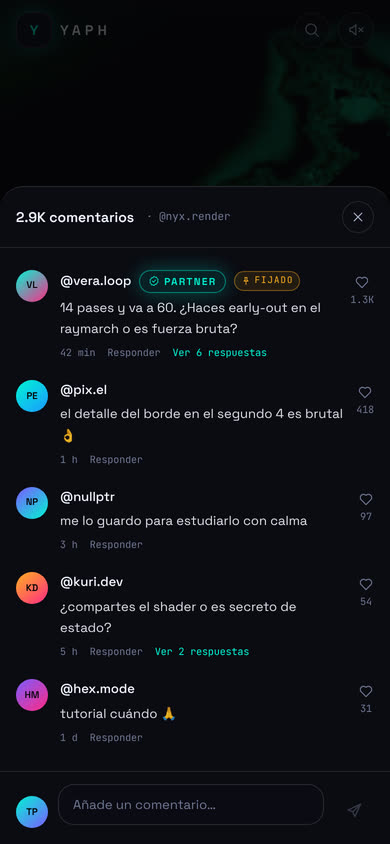
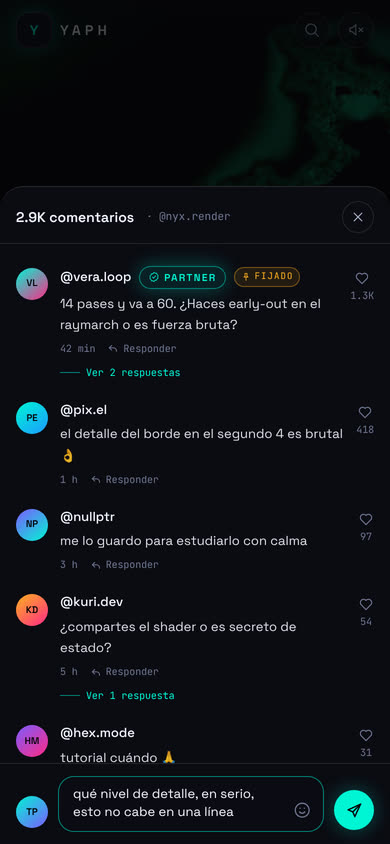
fix(comments): la caja de escritura ocupa la fila y crece con el texto
Repartida en columnas junto al avatar, el selector de emoji y el botón de
enviar, al campo le quedaban unos 90 px en la columna derecha: el placeholder
se partía en dos líneas, se recortaba contra la altura de una sola fila y
asomaba la barra de desplazamiento nativa del textarea.

- El campo ocupa el ancho disponible y el selector de emoji pasa dentro, en
  la esquina. Va en un envoltorio con la posición porque el host del selector
  ya es `relative` para anclar su panel, y dos utilidades de `position` en el
  mismo elemento se resuelven por orden de la cascada.
- La altura se ajusta al contenido hasta unas cinco líneas y a partir de ahí
  desplaza, con la barra oculta. El ajuste usa `afterRenderEffect` para medir
  el DOM ya actualizado; no se usa `field-sizing: content` porque todavía no
  está en todos los motores.
- En la hoja móvil el primer pase medía con el `<dialog>` aún sin abrir, donde
  `scrollHeight` vale 0, y dejaba la caja en 22 px de alto. Se descarta esa
  medida y el `min-h` del campo sostiene la altura hasta que haya algo que
  medir.
- El contador de caracteres baja a su propia línea, enlazado con
  `aria-describedby`, y el textarea declara `enterkeyhint="send"` para que el
  teclado virtual ofrezca enviar.

Claude-Session: https://claude.ai/code/session_016RW5nhrZUEgySQ6RARUoz1

diff --git a/src/app/features/comments/comments-thread.ts b/src/app/features/comments/comments-thread.ts
@@ -1,5 +1,6 @@
 import {
   afterNextRender,
+  afterRenderEffect,
   Component,
   computed,
   effect,
@@ -24,6 +25,9 @@ type Tab = 'live' | 'thread';
 
 /** A partir de aquí se muestra cuántos caracteres quedan. */
 const WARN_REMAINING = 30;
+
+/** Alto máximo del campo antes de que empiece a desplazarse (≈5 líneas). */
+const COMPOSER_MAX_PX = 112;
 
 /** Ids únicos por instancia para enlazar pestañas y paneles con ARIA. */
 let instances = 0;
@@ -166,48 +170,60 @@ let instances = 0;
         </p>
       }
 
-      <form class="flex items-end gap-2 px-4 py-3" (submit)="submit($event)">
-        <app-avatar-orb class="mb-1" [creator]="currentUser" size="sm" />
+      <form class="px-4 py-3" (submit)="submit($event)">
+        <div class="flex items-end gap-2.5">
+          <app-avatar-orb class="mb-1" [creator]="currentUser" size="sm" />
 
-        <label class="min-w-0 flex-1">
-          <span class="sr-only">{{ composerLabel() }}</span>
-          <textarea
-            #composer
-            rows="1"
-            [attr.maxlength]="maxLength"
-            [attr.placeholder]="placeholder()"
-            class="glass-flat max-h-24 w-full resize-none rounded-2xl border border-white/12 px-3.5 py-2.5 text-[0.8125rem] text-ink placeholder:text-ink-faint focus:border-neon-cyan/50 focus:outline-none"
-            [value]="draft()"
-            (input)="onInput($event)"
-            (keydown.enter)="submit($event)"
-          ></textarea>
-        </label>
+          <!-- El campo ocupa toda la fila y el selector de emoji va dentro:
+               repartido en columnas, el placeholder no cabía en una línea y se
+               recortaba contra la altura de una sola fila. -->
+          <div class="relative min-w-0 flex-1">
+            <label>
+              <span class="sr-only">{{ composerLabel() }}</span>
+              <textarea
+                #composer
+                rows="1"
+                enterkeyhint="send"
+                [attr.maxlength]="maxLength"
+                [attr.placeholder]="placeholder()"
+                [attr.aria-describedby]="remaining() <= warnRemaining ? counterId : null"
+                class="glass-flat scrollbar-none block max-h-28 min-h-[2.375rem] w-full resize-none overflow-y-auto rounded-2xl border border-white/12 py-2.5 pr-11 pl-3.5 text-[0.8125rem] leading-snug text-ink placeholder:text-ink-faint focus:border-neon-cyan/50 focus:outline-none"
+                [value]="draft()"
+                (input)="onInput($event)"
+                (keydown.enter)="submit($event)"
+              ></textarea>
+            </label>
 
-        <app-emoji-picker class="mb-0.5" (pick)="insertEmoji($event)" />
+            <!-- El envoltorio lleva la posición: el host del selector ya es
+                 relative para anclar su panel, y dos utilidades de position en
+                 el mismo elemento se resuelven por orden de la cascada. -->
+            <div class="absolute right-1.5 bottom-1.5">
+              <app-emoji-picker (pick)="insertEmoji($event)" />
+            </div>
+          </div>
+
+          <button
+            type="submit"
+            class="mb-0.5 grid size-10 shrink-0 place-items-center rounded-full transition-[background-color,color,box-shadow,opacity] duration-200 disabled:cursor-not-allowed disabled:opacity-40"
+            [class]="submitClass()"
+            [disabled]="!canSubmit()"
+            [attr.aria-label]="submitLabel()"
+          >
+            <app-icon name="send" class="size-[1.15rem]" [strokeWidth]="1.8" />
+          </button>
+        </div>
 
         @if (remaining() <= warnRemaining) {
-          <span
-            class="metric mb-3 shrink-0 text-[0.625rem]"
+          <p
+            [id]="counterId"
+            class="metric mt-1.5 pr-12 text-right text-[0.625rem]"
             [class.text-neon-magenta]="remaining() <= 0"
             [class.text-ink-faint]="remaining() > 0"
             aria-live="polite"
           >
-            {{ remaining() }}
-          </span>
+            {{ remaining() }} caracteres
+          </p>
         }
-
-        <button
-          type="submit"
-          class="mb-0.5 grid size-10 shrink-0 place-items-center rounded-full transition-[background-color,color,box-shadow,opacity] duration-200 disabled:cursor-not-allowed disabled:opacity-40"
-          [class.bg-neon-cyan]="canSubmit()"
-          [class.text-abyss]="canSubmit()"
-          [class.shadow-neon-cyan]="canSubmit()"
-          [class.text-ink-faint]="!canSubmit()"
-          [disabled]="!canSubmit()"
-          [attr.aria-label]="submitLabel()"
-        >
-          <app-icon name="send" class="size-[1.15rem]" [strokeWidth]="1.8" />
-        </button>
       </form>
     </div>
   `,
@@ -227,6 +243,7 @@ export class CommentsThread {
   protected readonly maxLength = COMMENT_MAX_LENGTH;
   protected readonly warnRemaining = WARN_REMAINING;
   protected readonly uid = `-${(instances += 1)}`;
+  protected readonly counterId = `composer-count${this.uid}`;
   protected readonly tabs = [
     { id: 'live', label: 'En directo' },
     { id: 'thread', label: 'Comentarios' },
@@ -277,6 +294,17 @@ export class CommentsThread {
       if (this.autoFocus()) this.composerRef().nativeElement.focus();
     });
 
+    // El campo crece con el texto. `afterRenderEffect` y no `effect` porque
+    // hay que medir el DOM ya actualizado con el nuevo valor.
+    //
+    // No se usa `field-sizing: content`, que haría esto en CSS puro, porque
+    // todavía no está en todos los motores; en cuanto lo esté, este bloque se
+    // sustituye por una línea de estilos.
+    afterRenderEffect(() => {
+      this.draft();
+      this.autosize();
+    });
+
     // El chat solo corre mientras su pestaña está a la vista. `TrendsStore`
     // lleva recuento de suscriptores, así que convivir con la tarjeta del HUD
     // no duplica el temporizador.
@@ -303,6 +331,14 @@ export class CommentsThread {
     return this.replies(comment).length;
   }
 
+  /**
+   * Clases completas por rama: `bg-neon-cyan` y compañía se alternan juntas y
+   * un nombre con barra no se puede escribir como enlace `[class.…]`.
+   */
+  protected readonly submitClass = computed(() =>
+    this.canSubmit() ? 'bg-neon-cyan text-abyss shadow-neon-cyan' : 'text-ink-faint',
+  );
+
   protected tabClass(id: Tab): string {
     return this.tab() === id
       ? 'bg-neon-cyan/15 text-neon-cyan shadow-neon-cyan'
@@ -318,6 +354,25 @@ export class CommentsThread {
 
   protected onInput(event: Event): void {
     this.draft.set((event.target as HTMLTextAreaElement).value);
+  }
+
+  /**
+   * Ajusta el alto al contenido. Leer `scrollHeight` fuerza un cálculo de
+   * layout, pero solo ocurre cuando cambia el texto, no en cada frame.
+   *
+   * En la hoja móvil el primer pase ocurre con el `<dialog>` todavía sin
+   * abrir: el campo no está renderizado, `scrollHeight` vale 0 y fijar ese
+   * valor dejaría la caja aplastada. Se descarta la medida y el `min-h` del
+   * propio campo sostiene la altura hasta que haya algo que medir.
+   */
+  private autosize(): void {
+    const textarea = this.composerRef().nativeElement;
+    textarea.style.height = 'auto';
+
+    const measured = textarea.scrollHeight;
+    if (measured === 0) return;
+
+    textarea.style.height = `${Math.min(measured, COMPOSER_MAX_PX)}px`;
   }
 
   /** Inserta el emoji donde está el cursor, no al final del texto. */

diff --git a/src/app/ui/emoji-picker.ts b/src/app/ui/emoji-picker.ts
@@ -1,4 +1,4 @@
-import { Component, ElementRef, inject, output, signal } from '@angular/core';
+import { Component, computed, ElementRef, inject, output, signal } from '@angular/core';
 import { Icon } from './icon';
 
 interface Emoji {
@@ -109,9 +109,8 @@ const GROUPS: readonly EmojiGroup[] = [
   template: `
     <button
       type="button"
-      class="grid size-9 place-items-center rounded-full border border-white/12 text-ink-muted transition-[color,border-color] duration-200 hover:border-neon-cyan/50 hover:text-neon-cyan"
-      [class.border-neon-cyan]="open()"
-      [class.text-neon-cyan]="open()"
+      class="grid size-8 place-items-center rounded-full transition-[color,background-color] duration-200 hover:bg-white/10 hover:text-neon-cyan"
+      [class]="buttonClass()"
       [attr.aria-expanded]="open()"
       aria-label="Insertar emoji"
       (click)="open.set(!open())"
@@ -121,7 +120,7 @@ const GROUPS: readonly EmojiGroup[] = [
 
     @if (open()) {
       <div
-        class="absolute right-0 bottom-11 z-50 w-64 rounded-glass border border-white/12 bg-carbon p-2 shadow-hud"
+        class="absolute right-0 bottom-10 z-50 w-60 rounded-glass border border-white/12 bg-carbon p-2 shadow-hud"
         role="group"
         aria-label="Emojis"
       >
@@ -155,6 +154,14 @@ export class EmojiPicker {
   readonly pick = output<string>();
 
   protected readonly open = signal(false);
+
+  /**
+   * Clases completas por rama: `bg-white/10` lleva barra y no se puede
+   * escribir como enlace `[class.…]`.
+   */
+  protected readonly buttonClass = computed(() =>
+    this.open() ? 'bg-white/10 text-neon-cyan' : 'text-ink-faint',
+  );
   protected readonly groups = GROUPS;
 
   private readonly host = inject<ElementRef<HTMLElement>>(ElementRef);

diff --git a/src/app/features/comments/comments.spec.ts b/src/app/features/comments/comments.spec.ts
@@ -222,6 +222,38 @@ describe('Hilo de comentarios', () => {
     });
   });
 
+  describe('caja de escritura', () => {
+    it('anuncia los caracteres restantes solo cerca del límite', async () => {
+      const { fixture, host } = await render();
+
+      commentButton(host).click();
+      await fixture.whenStable();
+
+      const composer = host.querySelector<HTMLTextAreaElement>('textarea')!;
+      expect(composer.getAttribute('enterkeyhint')).toBe('send');
+      expect(composer.getAttribute('aria-describedby')).toBeNull();
+
+      composer.value = 'x'.repeat(125);
+      composer.dispatchEvent(new Event('input', { bubbles: true }));
+      await fixture.whenStable();
+
+      const counterId = composer.getAttribute('aria-describedby');
+      expect(counterId).toBeTruthy();
+      // El contador existe de verdad y dice lo que queda.
+      expect(host.querySelector(`#${counterId}`)?.textContent).toContain('25 caracteres');
+    });
+
+    it('mantiene el selector de emoji dentro del campo', async () => {
+      const { fixture, host } = await render();
+
+      commentButton(host).click();
+      await fixture.whenStable();
+
+      const field = host.querySelector('textarea')!.closest('div')!;
+      expect(field.querySelector('button[aria-label="Insertar emoji"]')).toBeTruthy();
+    });
+  });
+
   describe('directos', () => {
     it('ofrece dos pestañas y arranca en el chat', async () => {
       const { fixture, host } = await render();

diff --git a/README.md b/README.md
@@ -145,6 +145,18 @@ viendo clips grabados.
 mismo comentario raíz. Un árbol arbitrario obliga a paginar por rama y a
 resolver el sangrado en móvil, y no aporta nada a esta conversación.
 
+**La caja de escritura crece con el texto y ocupa toda la fila.** Repartida en
+columnas junto al avatar y dos botones, en la columna derecha le quedaban unos
+90 px: el placeholder se partía en dos líneas y se recortaba contra la altura
+de una sola fila, y asomaba la barra de desplazamiento nativa. Ahora el campo
+ocupa el ancho disponible, el selector de emoji va dentro y la altura se ajusta
+al contenido hasta unas cinco líneas. El ajuste va en TS (`afterRenderEffect`
+mide el DOM ya actualizado) y no con `field-sizing: content`, que todavía no
+está en todos los motores; cuando lo esté, es una línea de CSS y se borra el
+método. En la hoja móvil el primer pase mide con el `<dialog>` aún sin abrir, y
+ahí `scrollHeight` vale 0: se descarta esa medida y el `min-h` del campo
+sostiene la altura.
+
 **El selector de emojis no usa la Popover API.** Un `popover` vive en la capa
 superior y su colocación junto al disparador depende de CSS Anchor Positioning,
 que todavía no está en todos los motores. Un panel absoluto se coloca igual en
